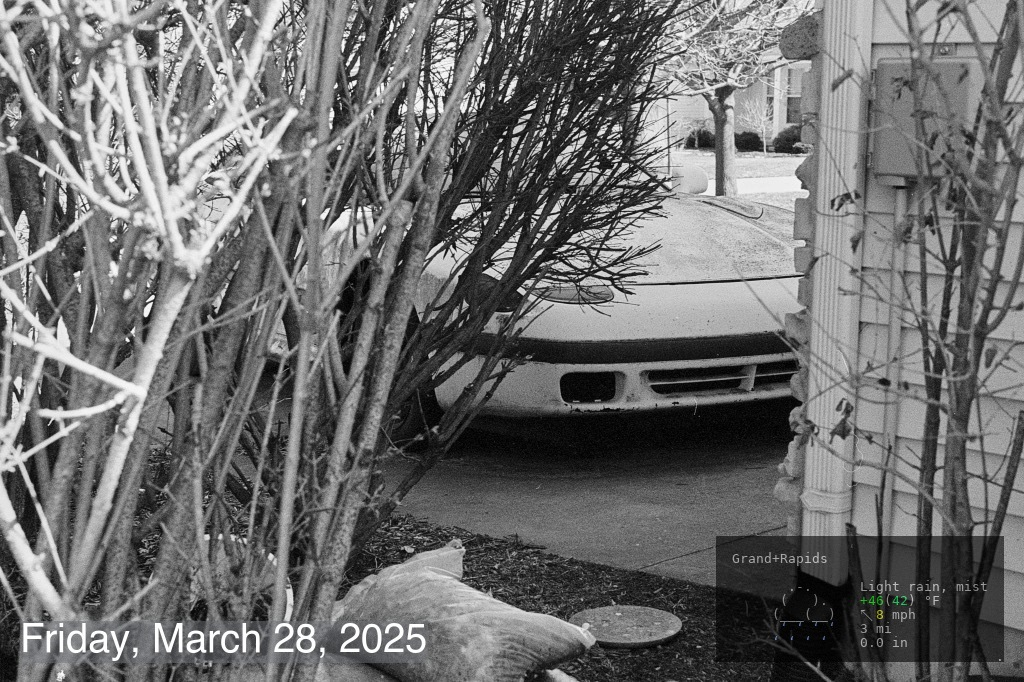
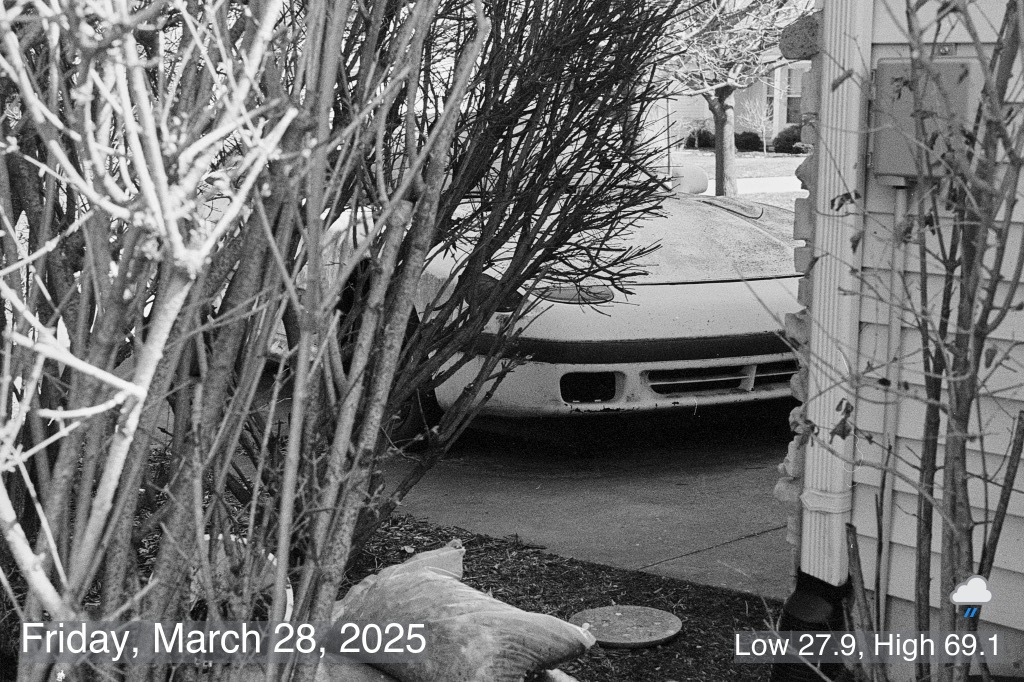
Publish checkpoint

Changed region(s): [[0.6875, 0.7698, 1.0, 0.9853]]

diff --git a/content/posts/2025/03/2025-03-28-annotating-an-image-with-weather/index.md b/content/posts/2025/03/2025-03-28-annotating-an-image-with-weather/index.md
@@ -1,0 +1,127 @@
+---
+title: 'Annotating an image with weather'
+date: 2025-03-28 13:12:10 -0400
+slug: annotating-an-image-with-weather
+categories: [""]
+tags: [""]
+summary: 
+draft: true
+cover: 
+  image: 
+  alt: 
+  caption: 
+  relative: true
+---
+
+I thought it would be neat to include the date and weather on the images I use for my journal entry covers here on the blog.
+
+It turned out to be neat, but not fun. I spent nearly 3 hours on all sorts of failed approaches. I figured it might be useful to write down where I ended up.
+
+I leveraged two of my existing bash scripts that deal with the weather, and wrote a new one that uses ImageMagick to put things together.
+
+Basically, I pass an image name to the script and it overlays the date at the bottom left and the weather at the bottom right. Like so...
+
+`~/bin/annotate-image.sh MyImage.jpg`
+
+Here is the result:
+
+{{< figure src="example.jpg" caption="The results are still janky, but they work." >}}
+
+```bash
+#!/bin/bash
+
+# Check if an image name is provided
+if [ "$#" -ne 1 ]; then
+    echo "Usage: $0 <image_file>"
+    exit 1
+fi
+
+IMAGE_FILE="$1"
+OUTPUT_FILE="cover_$(basename "$IMAGE_FILE")"
+WEATHER_URL="wttr.in/Grand+Rapids_0tqp0.png"
+WEATHER_ICON=$(~/bin/getwcond)
+WEATHER_ICON="/Users/jbaty/Sync/graphics/weather/64x64/day/$WEATHER_ICON"
+CONDITIONS=$(~/bin/getweather | cut -f2 -d"|")
+
+
+# Get current date in format "Friday, March 28, 2025"
+CURRENT_DATE=$(date "+%A, %B %d, %Y")
+
+# Add the weather info to the bottom right and the date to the bottom left
+/opt/homebrew/bin/magick \
+    "$IMAGE_FILE" \
+    -fill white \
+    -undercolor '#6F737880' \
+    -font "Helvetica" \
+    -pointsize 40 \
+    -gravity SouthWest \
+    -annotate +20+20 "$CURRENT_DATE" \
+    -gravity SouthEast \
+    -pointsize 30 \
+    -annotate +20+20 "$CONDITIONS" \
+    "$OUTPUT_FILE"
+
+# Now overlay the weather from wttr onto the output from the previous command
+/opt/homebrew/bin/magick composite \
+    -gravity SouthEast \
+    -geometry +20+60 \
+    "$WEATHER_ICON" \
+    "$OUTPUT_FILE" \
+    "$OUTPUT_FILE"
+
+echo "Weather added to image: $OUTPUT_FILE"
+```
+
+That script uses two other scripts that I wrote years ago for grabbing weather conditions `getweather`
+
+```bash
+#!/bin/sh
+# Grab and parse weather info using WeatherAPI.com
+
+jq=/opt/homebrew/bin/jq
+weatherfile=`mktemp`
+curl -s "https://api.weatherapi.com/v1/forecast.json?key=MYAPIKEY&q=MYZIP&days=1&aqi=no&alerts=no" > $weatherfile
+
+now=`${jq} -r .current.condition.text ${weatherfile}`
+temp=`${jq} -r .current.temp_f ${weatherfile}`
+condition=`${jq} -r .forecast.forecastday[0].day.condition.text ${weatherfile}`
+high=`${jq} -r .forecast.forecastday[0].day.maxtemp_f ${weatherfile}`
+low=`${jq} -r .forecast.forecastday[0].day.mintemp_f ${weatherfile}`
+
+echo "${now} ${temp} | Low ${low}, High ${high}"
+```
+
+Returns something like "Light rain 50.4 | Low 27.9, High 69.1". I use `cut` to grab just the high/low temperature part.
+
+Then there's `getwcond` which is mostly a copy/paste job from the previous script. It returns the name of an image file for the current conditions (e.g. 234.png). I use this as the icon to overlay onto the image. 
+
+```bash
+#!/bin/sh
+# Jack Baty, 2023 (https://baty.net)
+# Grab and parse weather info using WeatherAPI.com
+
+jq=/opt/homebrew/bin/jq
+weatherfile=`mktemp`
+conditionfile=/Users/jbaty/Sync/graphics/weather/conditions.json
+curl -s "https://api.weatherapi.com/v1/forecast.json?key=MYAPIKEY&q=MYZIP&days=1&aqi=no&alerts=no" > $weatherfile
+
+now=`${jq} -r .current.condition.text ${weatherfile}`
+temp=`${jq} -r .current.temp_f ${weatherfile}`
+condition=`${jq} -r .forecast.forecastday[0].day.condition.text ${weatherfile}`
+code=`${jq} -r .forecast.forecastday[0].day.condition.code ${weatherfile}`
+high=`${jq} -r .forecast.forecastday[0].day.maxtemp_f ${weatherfile}`
+low=`${jq} -r .forecast.forecastday[0].day.mintemp_f ${weatherfile}`
+
+iconcond=`${jq} -r .current.condition.icon ${weatherfile}`
+icon=$(${jq} '.[] | select(.code=='${code}').icon' ${conditionfile})
+
+
+#This is the day's conditions
+#echo $icon
+
+# This is the current conditions
+iconfile=$(basename $iconcond)
+echo $iconfile
+```
+
+This all took me way too long. I could've pulled out the LLM crutch, but I really wanted to figure it out on my own.

diff --git a/content/journal/2025/03-March/20250328/index.md b/content/journal/2025/03-March/20250328/index.md
@@ -12,8 +12,7 @@ cover:
   relative: true
 ---
 
-I spent hours this morning trying to find a good way of adding some metadata to the cover images on the blog. I wanted the temparature, at least. I tried shoehorning it into my [Retrobatch](https://flyingmeat.com/retrobatch/) script, but that was a dead end. Whenever I'm lost in image manipulation, I turn to [ImageMagick](https://imagemagick.org). Boy did that take me down a rabbit hole. Long story short, I figured it out. But now I don't like it. ¯\_(ツ)_/¯.
+I spent hours this morning trying to find a good way of adding some metadata to the cover images on the blog. I wanted the temparature, at least. I tried shoehorning it into my [Retrobatch](https://flyingmeat.com/retrobatch/) script, but that was a dead end. Whenever I'm lost in image manipulation, I turn to [ImageMagick](https://imagemagick.org). Boy did that take me down a rabbit hole. Long story short, [I figured it out](/posts/2025/03/annotating-an-image-with-weather/). But now I don't like it. ¯\_(ツ)_/¯.
 
 ----
-
 
